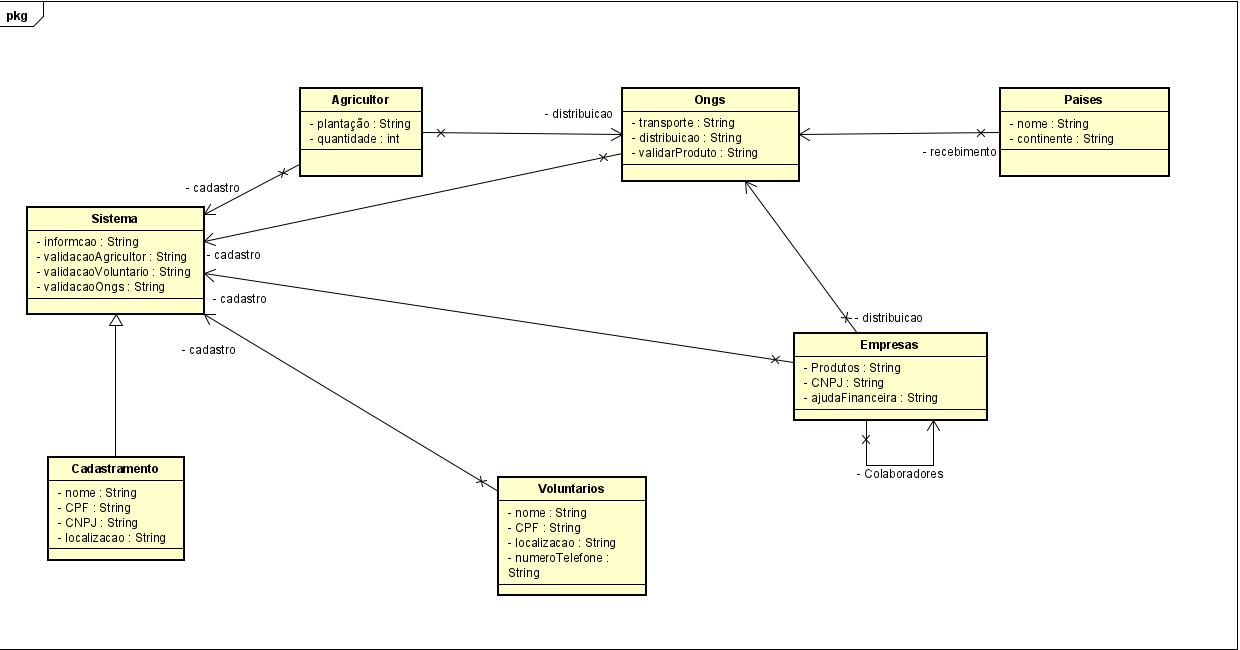
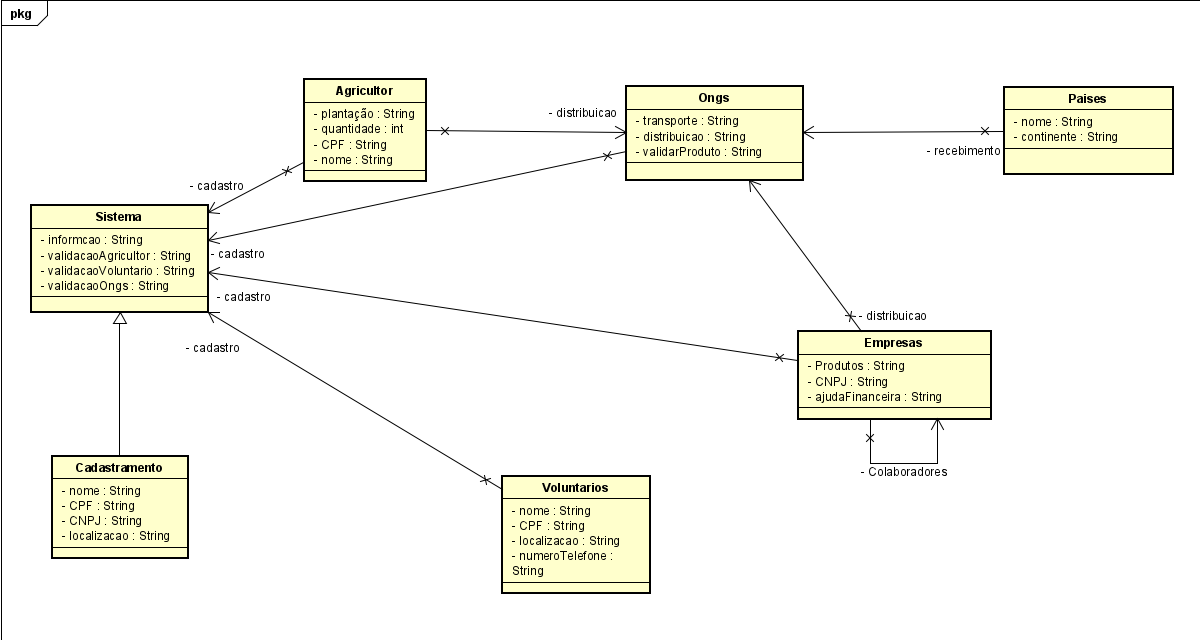
terminar depois

diff --git a/src/Main.java b/src/Main.java
@@ -1,6 +1,67 @@
+import br.com.empresa.model.Empresa;
+import br.com.empresa.model.Ongs;
+import br.com.pessoa.model.Agricultor;
+import br.com.pessoa.model.Voluntarios;
+import br.com.sistema.model.Cadastramento;
+import br.com.sistema.model.Pais;
+import br.com.sistema.model.Sistema;
+
 public class Main {
+
+    public static Empresa novaEmpresa(String nome, String produtos, String CNPJ){
+        Empresa ep = new Empresa();
+        ep.setNome(nome);
+        ep.setCNPJ(CNPJ);
+        ep.setProdutos(produtos);
+        return ep;
+    }
+
+    public static Voluntarios novoVoluntario(String nome, String CPF, String localizacao, String numeroTelefone){
+        Voluntarios vl = new Voluntarios();
+        vl.setCPF(CPF);
+        vl.setLocalizacao(localizacao);
+        vl.setNome(nome);
+        vl.setNumeroTelefone(numeroTelefone);
+        return vl;
+    }
+
+    public static Ongs novaOngs(String transporte, String distribuicao, String validarProduto){
+        Ongs og = new Ongs();
+        og.setTransporte(transporte);
+        og.setDistribuicao(distribuicao);
+        og.setValidarProduto(validarProduto);
+        return og;
+    }
+
+    public static Pais novoPais(String nome, String continente){
+        Pais pa = new Pais();
+        pa.setContinente(continente);
+        pa.setNome(nome);
+        return pa;
+    }
+
+    public static Agricultor novoAgricultor(String plantacao, int qunatidade, String CPF,String nome){
+        Agricultor ag = new Agricultor();
+        ag.setCPF(CPF);
+        ag.setNome(nome);
+        ag.setQuantidade(qunatidade);
+        ag.setPlantcao(plantacao);
+        return ag;
+    }
+
+    public static Cadastramento novoCadastramento(String nome, String CPF, String CNPJ, String localizacao){
+        Cadastramento ca = new Cadastramento();
+        ca.setCNPJ(CNPJ);
+        ca.setCPF(CPF);
+        ca.setNome(nome);
+        ca.setLocalizacao(localizacao);
+        return ca;
+    }
+
     public static void main(String[] args) {
 
+        Agricultor murilo = novoAgricultor("trigo", 100, "123.678.094-32", "Murilo");
+        Pais congo = novoPais()
 
 
     }

diff --git a/src/br/com/pessoa/model/Agricultor.java b/src/br/com/pessoa/model/Agricultor.java
@@ -9,6 +9,10 @@ public class Agricultor {
 
     private int quantidade;
 
+    private String nome;
+
+    private String CPF;
+
     private Sistema cadastro;
 
     private Ongs distribuicao;
@@ -16,9 +20,11 @@ public class Agricultor {
     public Agricultor() {
     }
 
-    public Agricultor(String plantcao, int quantidade, Sistema cadastro, Ongs distribuicao) {
+    public Agricultor(String plantcao, int quantidade, String nome, String CPF, Sistema cadastro, Ongs distribuicao) {
         this.plantcao = plantcao;
         this.quantidade = quantidade;
+        this.nome = nome;
+        this.CPF = CPF;
         this.cadastro = cadastro;
         this.distribuicao = distribuicao;
     }
@@ -38,6 +44,22 @@ public class Agricultor {
 
     public void setQuantidade(int quantidade) {
         this.quantidade = quantidade;
+    }
+
+    public String getNome() {
+        return nome;
+    }
+
+    public void setNome(String nome) {
+        this.nome = nome;
+    }
+
+    public String getCPF() {
+        return CPF;
+    }
+
+    public void setCPF(String CPF) {
+        this.CPF = CPF;
     }
 
     public Sistema getCadastro() {
@@ -61,6 +83,8 @@ public class Agricultor {
         return "Agricultor{" +
                 "plantcao='" + plantcao + '\'' +
                 ", quantidade=" + quantidade +
+                ", nome='" + nome + '\'' +
+                ", CPF='" + CPF + '\'' +
                 ", cadastro=" + cadastro +
                 ", distribuicao=" + distribuicao +
                 '}';

diff --git a/src/br/com/empresa/model/Empresa.java b/src/br/com/empresa/model/Empresa.java
@@ -14,8 +14,6 @@ public class Empresa {
 
     private String CNPJ;
 
-    private String ajudaFinaceira;
-
     private Ongs distribuicao;
 
     private Sistema cadastro;
@@ -34,7 +32,6 @@ public class Empresa {
         this.getColaboradores().remove(colaboladores);
         return this;
     }
-
 
     public String getNome() {
         return nome;
@@ -60,13 +57,6 @@ public class Empresa {
         this.CNPJ = CNPJ;
     }
 
-    public String getAjudaFinaceira() {
-        return ajudaFinaceira;
-    }
-
-    public void setAjudaFinaceira(String ajudaFinaceira) {
-        this.ajudaFinaceira = ajudaFinaceira;
-    }
 
     public Ongs getDistribuicao() {
         return distribuicao;
@@ -98,7 +88,6 @@ public class Empresa {
                 "nome='" + nome + '\'' +
                 ", produtos='" + produtos + '\'' +
                 ", CNPJ='" + CNPJ + '\'' +
-                ", ajudaFinaceira='" + ajudaFinaceira + '\'' +
                 ", distribuicao=" + distribuicao +
                 ", cadastro=" + cadastro +
                 ", colaboradores=" + colaboradores +
